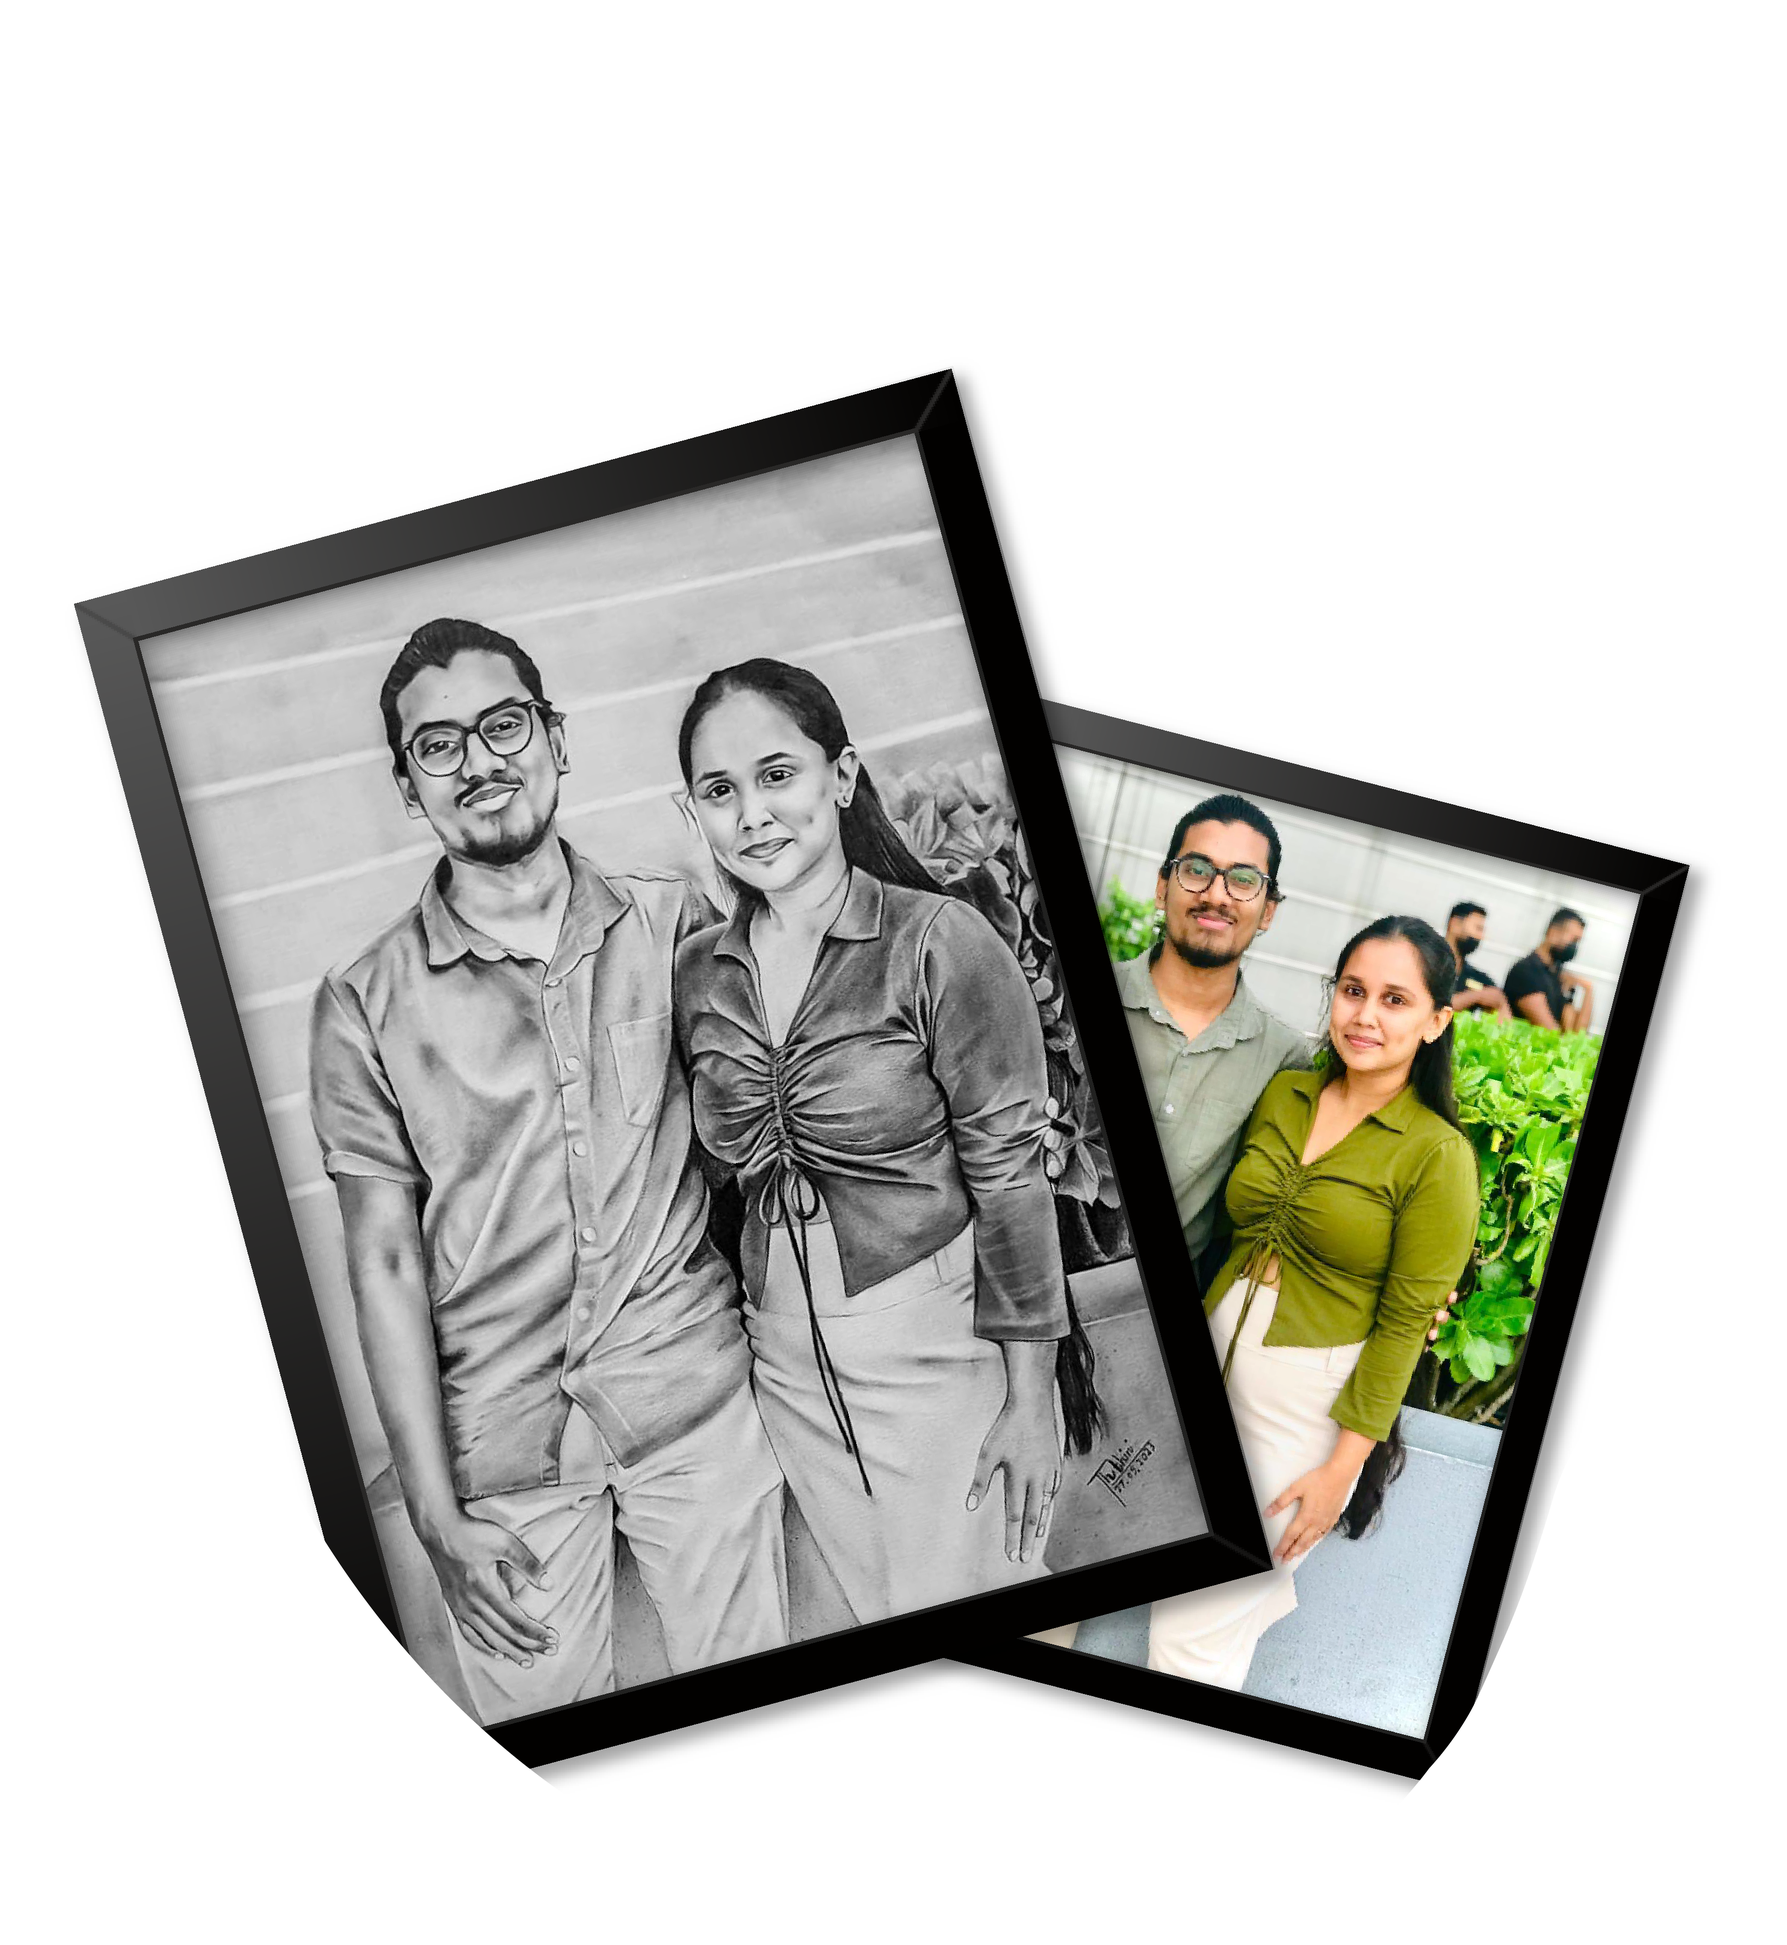
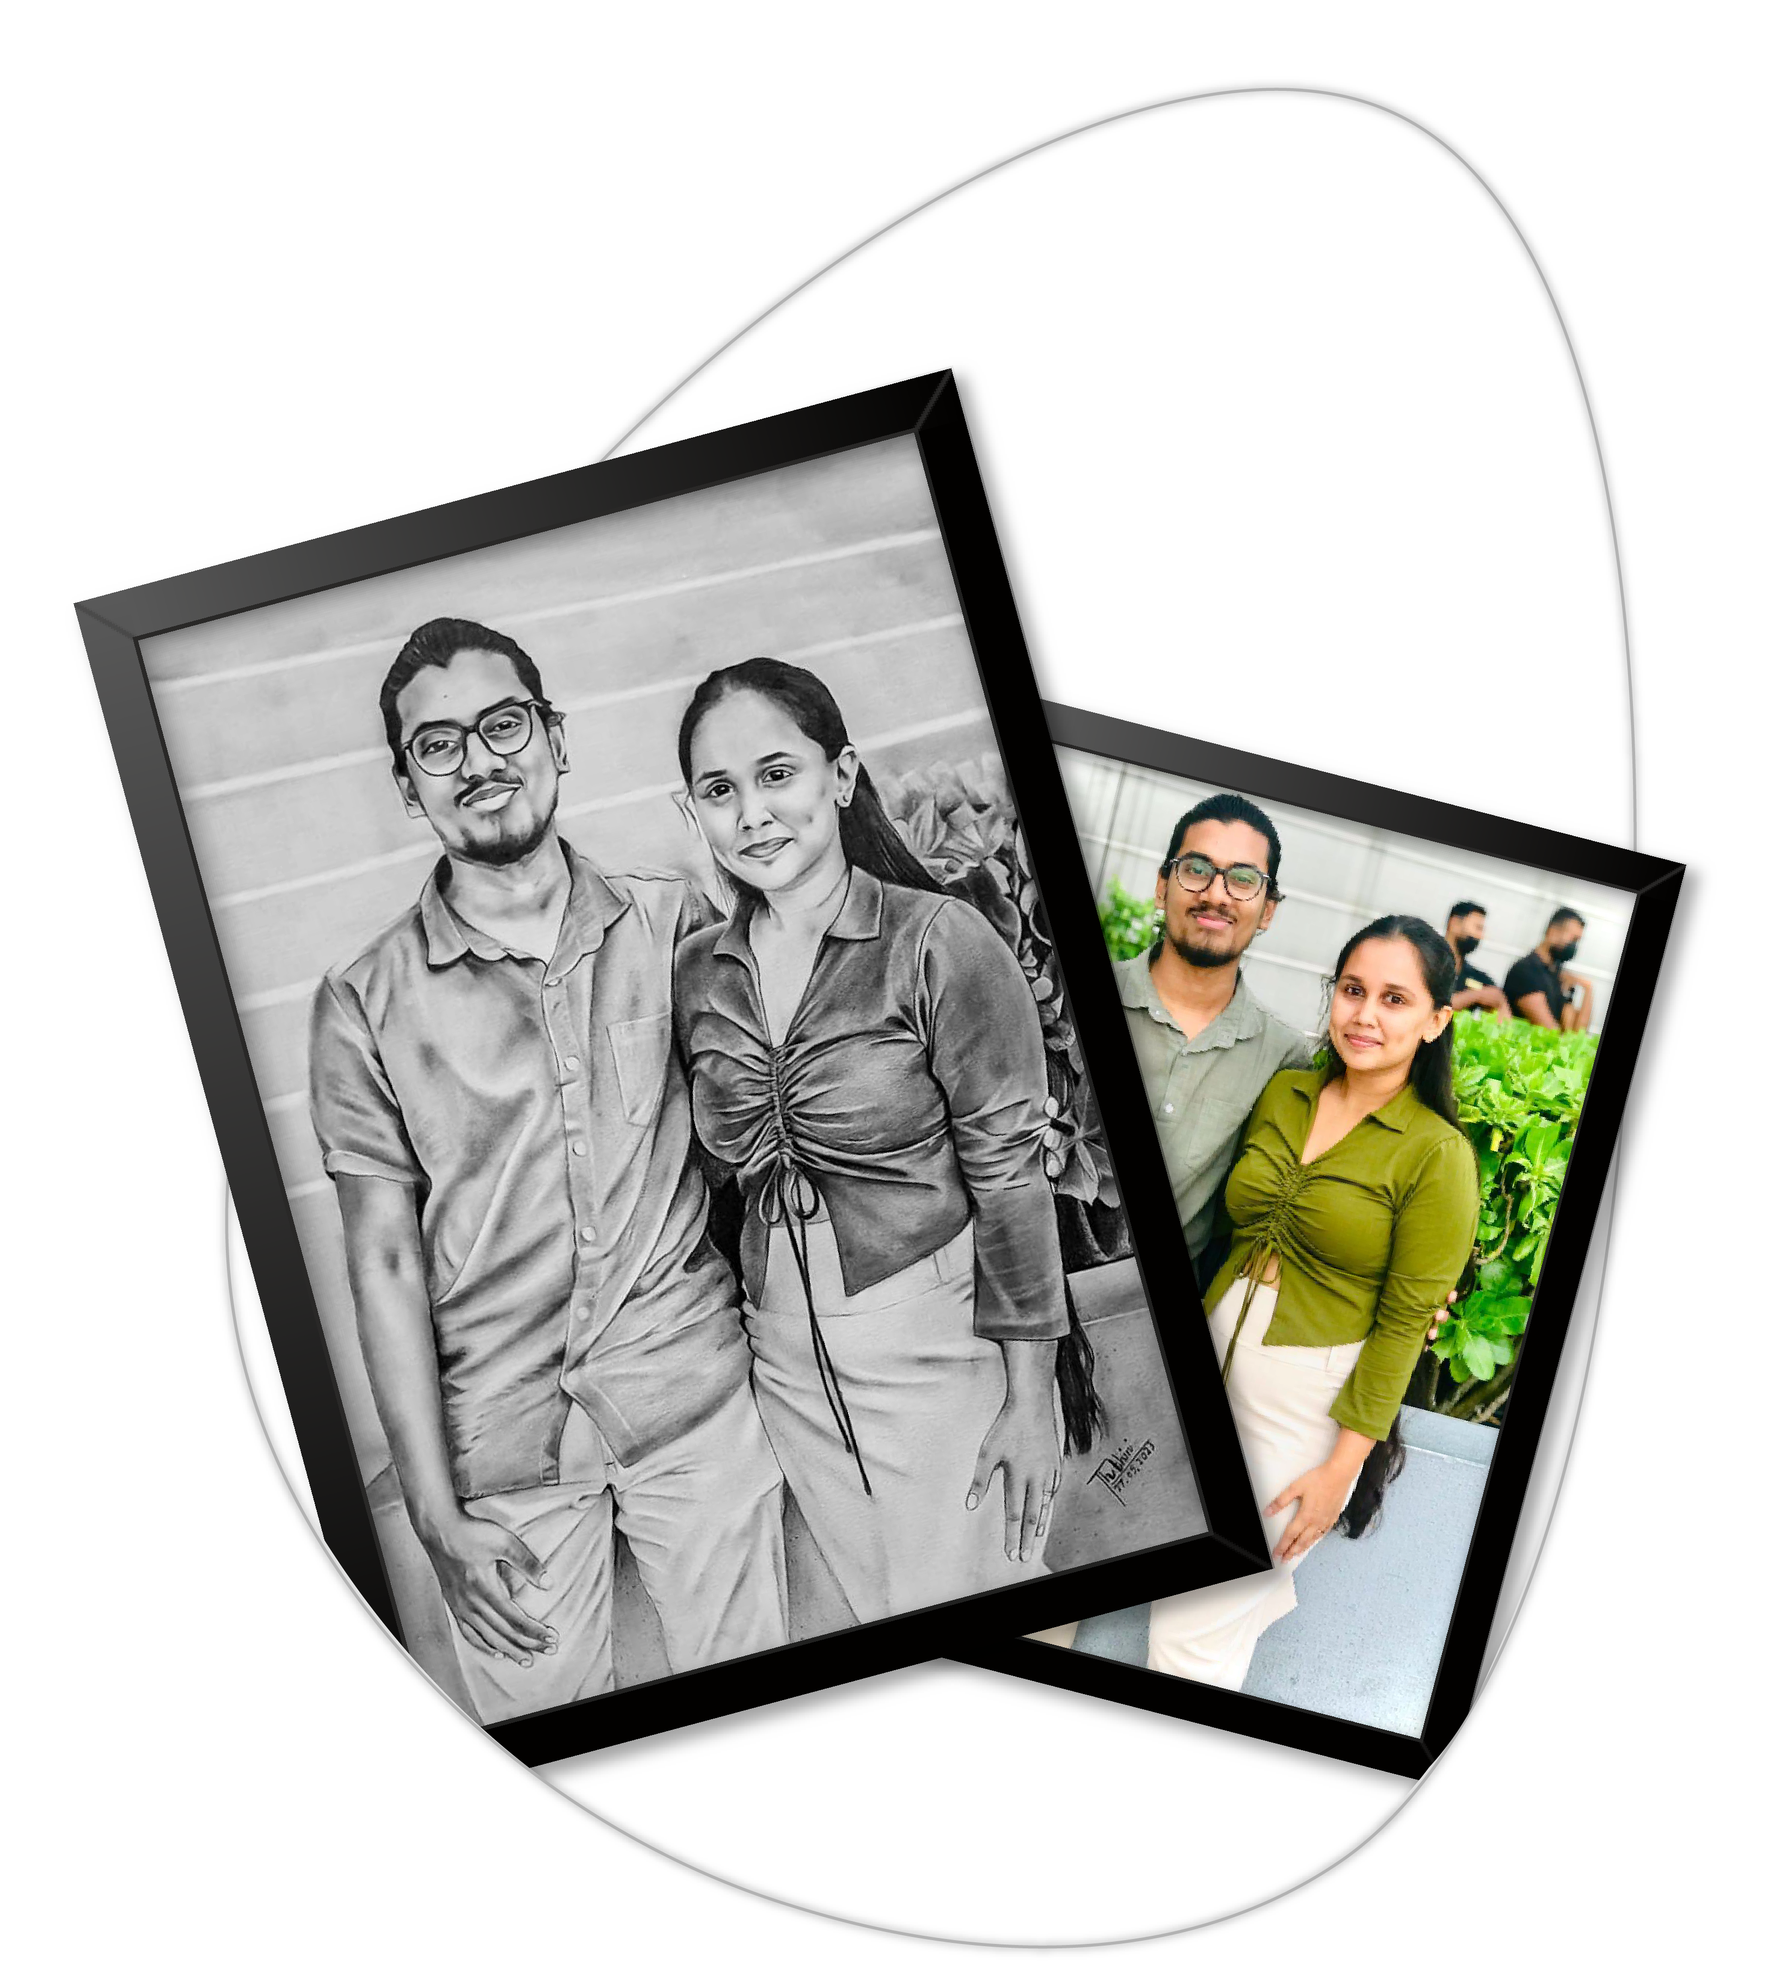
v0.003

diff --git a/components/HeroSection.module.scss b/components/HeroSection.module.scss
@@ -8,13 +8,15 @@
 
 .hero_section {
     width: 100%;
-    min-height: 1000px;
+    min-height: 600px;
     padding: 0.5rem;
     margin-top: 3.2rem;
+    margin-bottom: 2rem;
     background-color: transparent;
-    @include df_row(center, center, 2.5rem, wrap);
+    @include df_row(center, flex-end, 2.5rem, wrap);
     // border: solid 1px var(--color-base-600);
     @include large-break {
+        min-height: 1000px;
         @include df_column(flex-end, center, 3rem, wrap);
     }
     @include mid-break {
@@ -63,7 +65,7 @@
                 font-size: 7rem;
                 font-family: "Kimberly Signature", sans-serif;
                 font-weight: lighter;
-                color: var(--color-base-800);
+                color: var(--color-base-900);
                 @include position(relative, auto, auto, auto, auto);
 
                 p {
@@ -107,7 +109,7 @@
             .hero_res_con {
                 width: 100%;
                 // max-height: 30px;
-                @include df_row(flex-end, center, 1rem, nowrap);
+                @include df_row(center, center, 1rem, nowrap);
                 // border: solid 2px var(--color-base-200);
                 .resume_btn_con {
                     width: fit-content;
@@ -227,18 +229,24 @@
             width: 100%;
             &::before {
                 content: "";
-                @include position(absolute, 55%, auto, auto, 48%);
+                @include position(absolute, 50%, auto, auto, 50%);
                 transform: translateX(-50%) translateY(-50%);
-                width: 260px;
-                height: 310px;
+                width: 280px;
+                height: 340px;
                 border-radius: 50%;
                 background-color: transparent;
-                z-index: 10;
+                z-index: -1;
                 border-radius: 26% 74% 72% 28% / 30% 62% 38% 70%;
                 border: solid 2px var(--color-base-700);
                 transition:
                     transform 0.3s ease,
                     background-color 0.3s ease;
+                   
+            }
+            &:hover::before {
+                transition:
+                transform 0.3s ease,
+                background-color 0.3s ease;
             }
 
             .hero_image_con_ {

diff --git a/styles/colors.scss b/styles/colors.scss
@@ -1,27 +1,28 @@
 :root{
   /* Light mode - Base colors start with white and progress to black */
-  --color-base-0: rgb(255, 255, 255); /* Pure white */
-  --color-base-50: #f5f5f5;
-  --color-base-100: rgb(235, 235, 235);
-  --color-base-150: rgb(221, 221, 221);
-  --color-base-200: rgb(208, 208, 208);
-  --color-base-250: rgb(195, 195, 195);
-  --color-base-300: rgb(181, 181, 181);
-  --color-base-350: rgb(168, 168, 168);
-  --color-base-400: rgb(154, 154, 154);
-  --color-base-450: rgb(141, 141, 141);
+  /* Dark mode - Base colors start with black and progress to white */
+  --color-base-0: #222222; /* Pure black */
+  --color-base-50: rgb(7, 7, 7);
+  --color-base-100: rgb(20, 20, 20);
+  --color-base-150: rgb(34, 34, 34);
+  --color-base-200: rgb(47, 47, 47);
+  --color-base-250: rgb(60, 60, 60);
+  --color-base-300: rgb(74, 74, 74); 
+  --color-base-350: rgb(87, 87, 87); 
+  --color-base-400: rgb(101, 101, 101);
+  --color-base-450: rgb(114, 114, 114);
   --color-base-500: rgb(128, 128, 128); /* Mid gray */
-  --color-base-550: rgb(114, 114, 114);
-  --color-base-600: rgb(101, 101, 101);
-  --color-base-650: rgb(87, 87, 87);
-  --color-base-700: rgb(74, 74, 74);
-  --color-base-750: rgb(60, 60, 60);
-  --color-base-800: rgb(47, 47, 47);
-  --color-base-850: rgb(34, 34, 34);
-  --color-base-900: rgb(0, 0, 0); /* Pure black */
---color-base-df0: rgba(255, 255, 255, 0.446); 
-  --text--black-1: rgb(34, 34, 34); 
-  --transparent:rgba(0, 0, 0, 0); /* Black text for light background */
+  --color-base-550: rgb(141, 141, 141);
+  --color-base-600: rgb(154, 154, 154);
+  --color-base-650: rgb(168, 168, 168);
+  --color-base-700: rgb(181, 181, 181);
+  --color-base-750: rgb(195, 195, 195);
+  --color-base-800: rgb(208, 208, 208);
+  --color-base-850: rgb(221, 221, 221);
+  --color-base-900: rgb(255, 255, 255); /* Pure white */
+  --color-base-df0: rgba(0, 0, 0, 0.446); 
+  --text--black-1: rgb(243, 243, 243); 
+  --transparent:rgba(0, 0, 0, 0);  /* White text for dark background */
 }
 
 :root[data-theme="light"] {

diff --git a/components/CharcoalSection.module.scss b/components/CharcoalSection.module.scss
@@ -37,18 +37,28 @@
        
 
         .title {
+            width: 100%;
+            text-align: center;
+            @include df_row(center, center, 1rem, wrap);
+            // .title_s_p{
+            //     font-family: "popins";
+            //     font-size: 4rem;
+            //     font-weight: 600;
+            // }
             p {
                 font-family: "Kimberly Signature", sans-serif;
                 font-size: 5rem;
                 font-weight: 900;
+                
                 // line-height: 2rem;
                 color: var(--color-base-900);
             }
         }
         .about_text_con {
-            max-width: 750px;
+            max-width: 700px;
             font-size: 1.2rem;
             line-height: 2.5rem;
+            text-align: center;
             shape-outside: border-box;
             p {
                 color: var(--color-base-800);
@@ -61,7 +71,7 @@
         .hero_res_con {
             width: 100%;
             // max-height: 30px;
-            @include df_row(flex-end, center, 1rem, nowrap);
+            @include df_row(center, center, 1rem, nowrap);
             // border: solid 2px var(--color-base-200);
             .resume_btn_con {
                 width: fit-content;
@@ -71,7 +81,7 @@
                 padding: 0.2rem 0.8rem;
                 p {
                     color: var(--color-base-0);
-                    font-weight: 600;
+                    font-weight: 500;
                 }
                 &:hover {
                     background-color: transparent;
@@ -133,9 +143,9 @@
 
             .hero_image_con_ {
                 width: 100%;
-                max-width: 600px;
+                max-width: 650px;
                 height: 100%;
-                content: url("/image/asset_3.webp"); // Light mode image
+                content: url("/image/asset_4.webp"); // Light mode image
                 object-fit: cover;
                 object-position: top;
 

diff --git a/components/Image.module.scss b/components/Image.module.scss
@@ -1,0 +1,55 @@
+@import url("https://fonts.googleapis.com/css2?family=Poppins:ital,wght@0,100;0,200;0,300;0,400;0,500;0,600;0,700;0,800;0,900;1,100;1,200;1,300;1,400;1,500;1,600;1,700;1,800;1,900&display=swap");
+@import url("https://fonts.cdnfonts.com/css/kimberly-signature");
+@import "@styles/common.scss";
+
+.img_main_con {
+  
+    display: flex;
+    flex-direction: row;
+    flex-wrap: wrap;
+    justify-content: center;
+    gap: 2rem; // Space between columns
+    padding: 2rem;
+   
+    @include extra-small-break {
+        padding: 1rem;
+    }
+}
+
+.img_col {
+    min-width: 300px;
+    flex: 1; // All columns take equal width
+    display: flex;
+    flex-direction: column;
+    gap: 1.5rem; 
+    // border: solid 2px var(--color-base-800);
+    @include extra-small-break {
+        min-width: 280px;
+    }
+}
+
+.img_con {
+    position: relative;
+    overflow: hidden;
+    max-width: 450px;
+    box-shadow: 0px 4px 6px rgba(0, 0, 0, 0.1);
+    transition: transform 0.3s ease-in-out;
+    border: solid 2px var(--color-base-100);
+    backdrop-filter: blur(10px);
+    padding: .8rem;
+    &:hover {
+        transform: scale(1.05);
+    }
+}
+
+.img_tag {
+    display: block;
+    width: 100%;
+    height: auto;
+    object-fit: cover;
+    transition: opacity 0.3s ease;
+
+    &:hover {
+        opacity: 0.9;
+    }
+}

diff --git a/components/ImageGallery.js b/components/ImageGallery.js
@@ -1,0 +1,34 @@
+import Image from "@components/Image";
+import classes from "@components/ImageGallery.module.scss"
+
+const ImageGallery = () => {
+    // const imageWidth = 100;
+    // const imageHeight = 100;
+    
+    // const localImages = [
+    //     { src: '/image/bg2.webp', alt: 'Photo 1', width: imageWidth, height: imageHeight},
+    //     { src: '/image/bg1.webp', alt: 'Photo 2', width: imageWidth, height: imageHeight },
+    //     { src: '/image/bg2.webp', alt: 'Photo 3', width: imageWidth, height: imageHeight},
+    // ];
+
+    const localImages = [
+        { src: '/image/01.jpg', alt: 'Photo 1'},
+        { src: '/image/04.jpg', alt: 'Photo 2'},
+        { src: '/image/02.jpg', alt: 'Photo 3'},
+        { src: '/image/03.jpg', alt: 'Photo 4'},
+        { src: '/image/05.jpg', alt: 'Photo 5'},
+        { src: '/image/06.jpg', alt: 'Photo 6'},
+        { src: '/image/07.jpg', alt: 'Photo 7'},
+        { src: '/image/08.jpg', alt: 'Photo 8'},
+        { src: '/image/09.jpg', alt: 'Photo 9'},
+        { src: '/image/10.jpg', alt: 'Photo 10'},
+    ];
+
+    return (
+        <div className={classes.img_gallery}>
+            <h1 className={classes.img_gallery_h1}>{"- Image Gallery -"}</h1>
+            <Image imagess={localImages} />
+        </div>
+    );
+}
+export default ImageGallery;

diff --git a/components/Image.js b/components/Image.js
@@ -1,0 +1,33 @@
+"use client";
+import classes from "@components/Image.module.scss";
+import React from "react";
+
+const Images = ({ imagess }) => {
+  // Divide images into three groups (columns)
+  const columnCount = 4;
+  const columns = Array.from({ length: columnCount }, () => []);
+
+  imagess.forEach((image, index) => {
+    columns[index % columnCount].push(image); // Distribute images evenly
+  });
+
+  return (
+    <div className={classes.img_main_con}>
+      {columns.map((column, colIndex) => (
+        <div key={colIndex} className={classes.img_col}>
+          {column.map((image, imgIndex) => (
+            <div key={imgIndex} className={classes.img_con}>
+              <img
+                className={classes.img_tag}
+                src={image.src}
+                alt={image.alt || `Image ${imgIndex + 1}`}
+              />
+            </div>
+          ))}
+        </div>
+      ))}
+    </div>
+  );
+};
+
+export default Images;

diff --git a/app/page.js b/app/page.js
@@ -1,6 +1,7 @@
 import Image from "next/image";
 import HeroSection from "@components/HeroSection";
 import CharcoalSection from "@components/CharcoalSection"
+import ImageGallery from "@components/ImageGallery";
 import AboutSection from "@components/AboutSection";
 import Skills from "@components/Skills";
 import ContactSection from "@components/ContactSection";
@@ -25,6 +26,9 @@ export default function Home() {
         </div>
         <div className={classes.charcoalSection}>
           <CharcoalSection />
+        </div>
+        <div className={classes.imageGallery}>
+          <ImageGallery />
         </div>
         <div className={classes.aboutSection}>
           <AboutSection />

diff --git a/components/ImageGallery.module.scss b/components/ImageGallery.module.scss
@@ -1,0 +1,18 @@
+@import url("https://fonts.googleapis.com/css2?family=Poppins:ital,wght@0,100;0,200;0,300;0,400;0,500;0,600;0,700;0,800;0,900;1,100;1,200;1,300;1,400;1,500;1,600;1,700;1,800;1,900&display=swap");
+@import url("https://fonts.cdnfonts.com/css/kimberly-signature");
+@import "@styles/common.scss";
+
+// @include df_row(flex-end, center, 1rem, nowrap);
+// @include position(absolute, auto, 0, -0.5rem, 0);
+
+.img_gallery{
+    @include df_row(center, center, 0rem, wrap);
+    .img_gallery_h1{
+        font-family: "Kimberly Signature", sans-serif;
+                font-size: 5rem;
+
+                font-weight: lighter;
+                color: var(--color-base-900);
+
+    }
+}

diff --git a/app/Home.module.scss b/app/Home.module.scss
@@ -15,6 +15,7 @@
     grid-template-areas:
         "nav_spaser heroSection"
         "nav_spaser charcoalSection"
+        "nav_spaser imageGallery"
         "nav_spaser aboutSection"
         "nav_spaser skillsSection"
         "nav_spaser educationSection"
@@ -77,6 +78,9 @@
     }
     .charcoalSection{
         grid-area: charcoalSection;
+    }
+    .imageGallery{
+        grid-area: imageGallery;
     }
     .aboutSection {
         grid-area: aboutSection;

diff --git a/components/ContactSection.module.scss b/components/ContactSection.module.scss
@@ -10,14 +10,14 @@
     padding: 4rem 2rem;
     @include df_column(center, center, 2rem, wrap);
     @include small-break {
-        padding: 4rem 1rem;
+        padding: 4rem 0rem;
     }
 }
 .contactsSection {
     width: 100%;
     // min-height: 98vh;
     max-width: 800px;
-    padding: 2rem;
+    padding: 1rem;
     backdrop-filter: blur(10px);
     box-shadow: 0 1px 2px 0 rgba(98, 98, 98, 0.342);
     border-radius: var(--border-radius--);

diff --git a/components/CharcoalSection.js b/components/CharcoalSection.js
@@ -16,7 +16,9 @@ const AboutSection = () => {
         > */}
         <div className={classes.about_header}>
           <div className={classes.title}>
-            <p>Where Charcoal Meets Soul</p>
+            <p>Where</p>
+            <p className={classes.title_s_p}>Charcoal</p>
+            <p>Meets Soul</p>
           </div>
           <div className={classes.about_text_con}>
             <p>

diff --git a/components/TopNav.module.scss b/components/TopNav.module.scss
@@ -99,7 +99,7 @@
                 font-family: "Kimberly Signature", sans-serif;
                 font-size: 2.9rem;
                 font-weight: lighter;
-                color: var(--color-base-800);
+                color: var(--color-base-900);
                 @include small-break {
                     font-size: 2.8rem;
                 }
